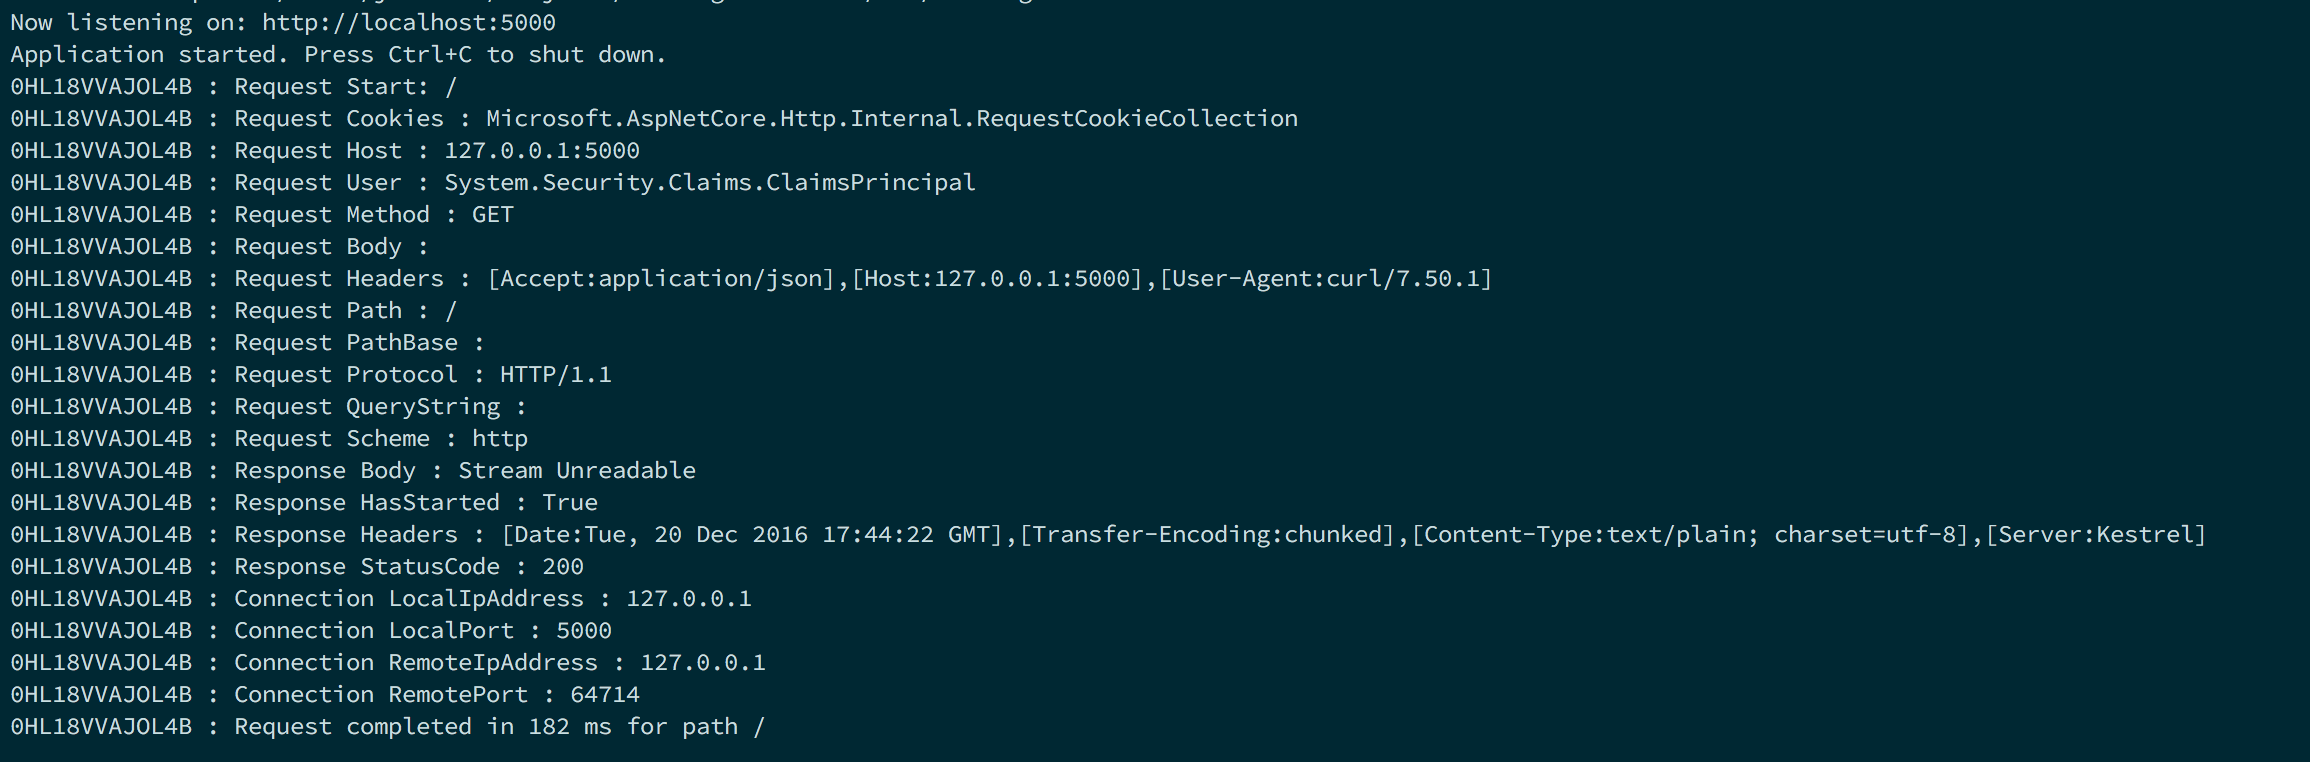
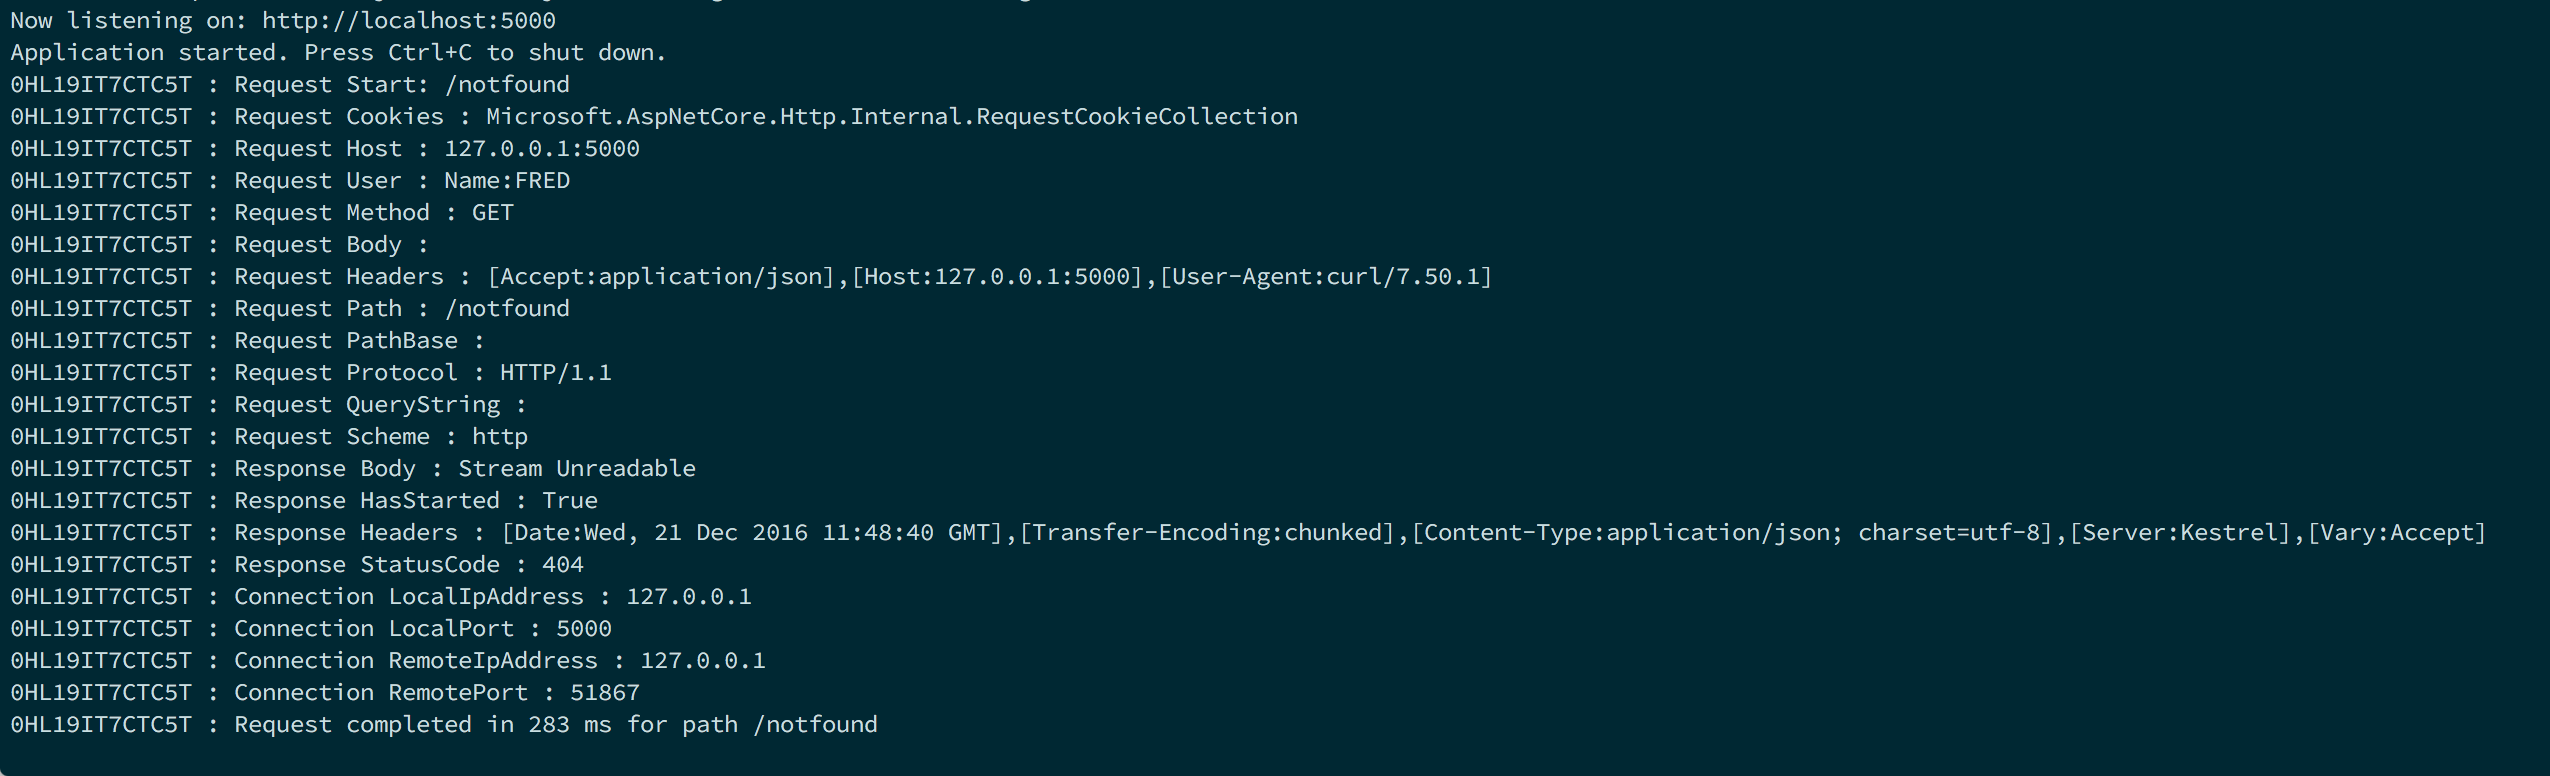
Added string.join for default ClaimsPrincipal

Changed region(s): [[0.0, 0.0, 0.9662, 0.9659]]

diff --git a/src/TracingMiddleware/TracingMiddlewareOptions.cs b/src/TracingMiddleware/TracingMiddlewareOptions.cs
@@ -8,6 +8,7 @@
     using System.Linq;
     using System.Threading;
     using System.Reflection;
+    using System.Security.Claims;
     using Microsoft.AspNetCore.Http;
 
     public delegate void Trace(string requestId, string message);
@@ -70,7 +71,9 @@
                 })
                 .ForType<IHeaderDictionary>(
                     headers => string.Join(",",
-                        headers.Select(header => string.Format("[{0}:{1}]", header.Key, string.Join(",", header.Value)))));
+                        headers.Select(header => string.Format("[{0}:{1}]", header.Key, string.Join(",", header.Value)))))
+                .ForType<ClaimsPrincipal>(user => string.Join(",", user.Claims.Select(x => x.Type + ":" + x.Value)));
+
         }
 
         public TracingMiddlewareOptions(Func<bool> isEnabled = null)
